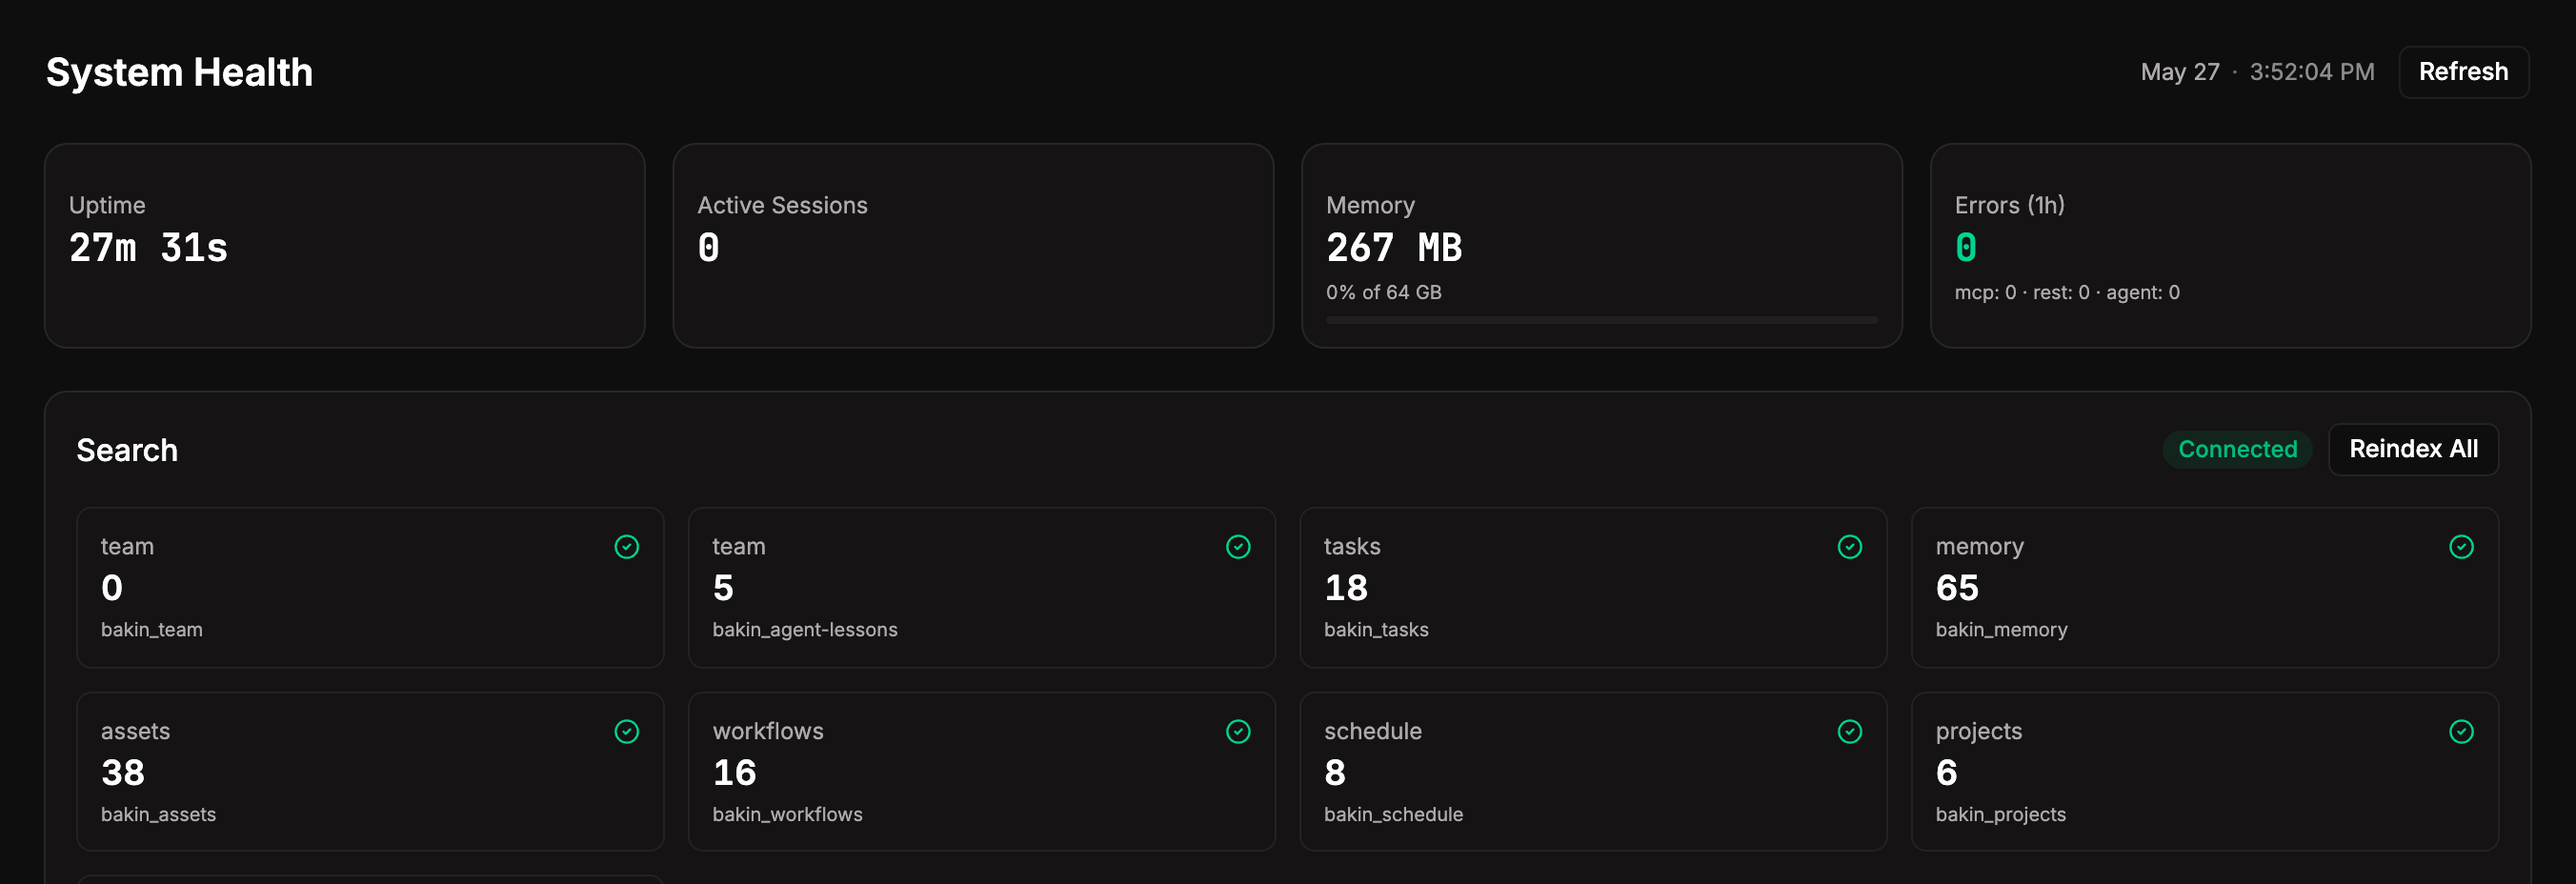
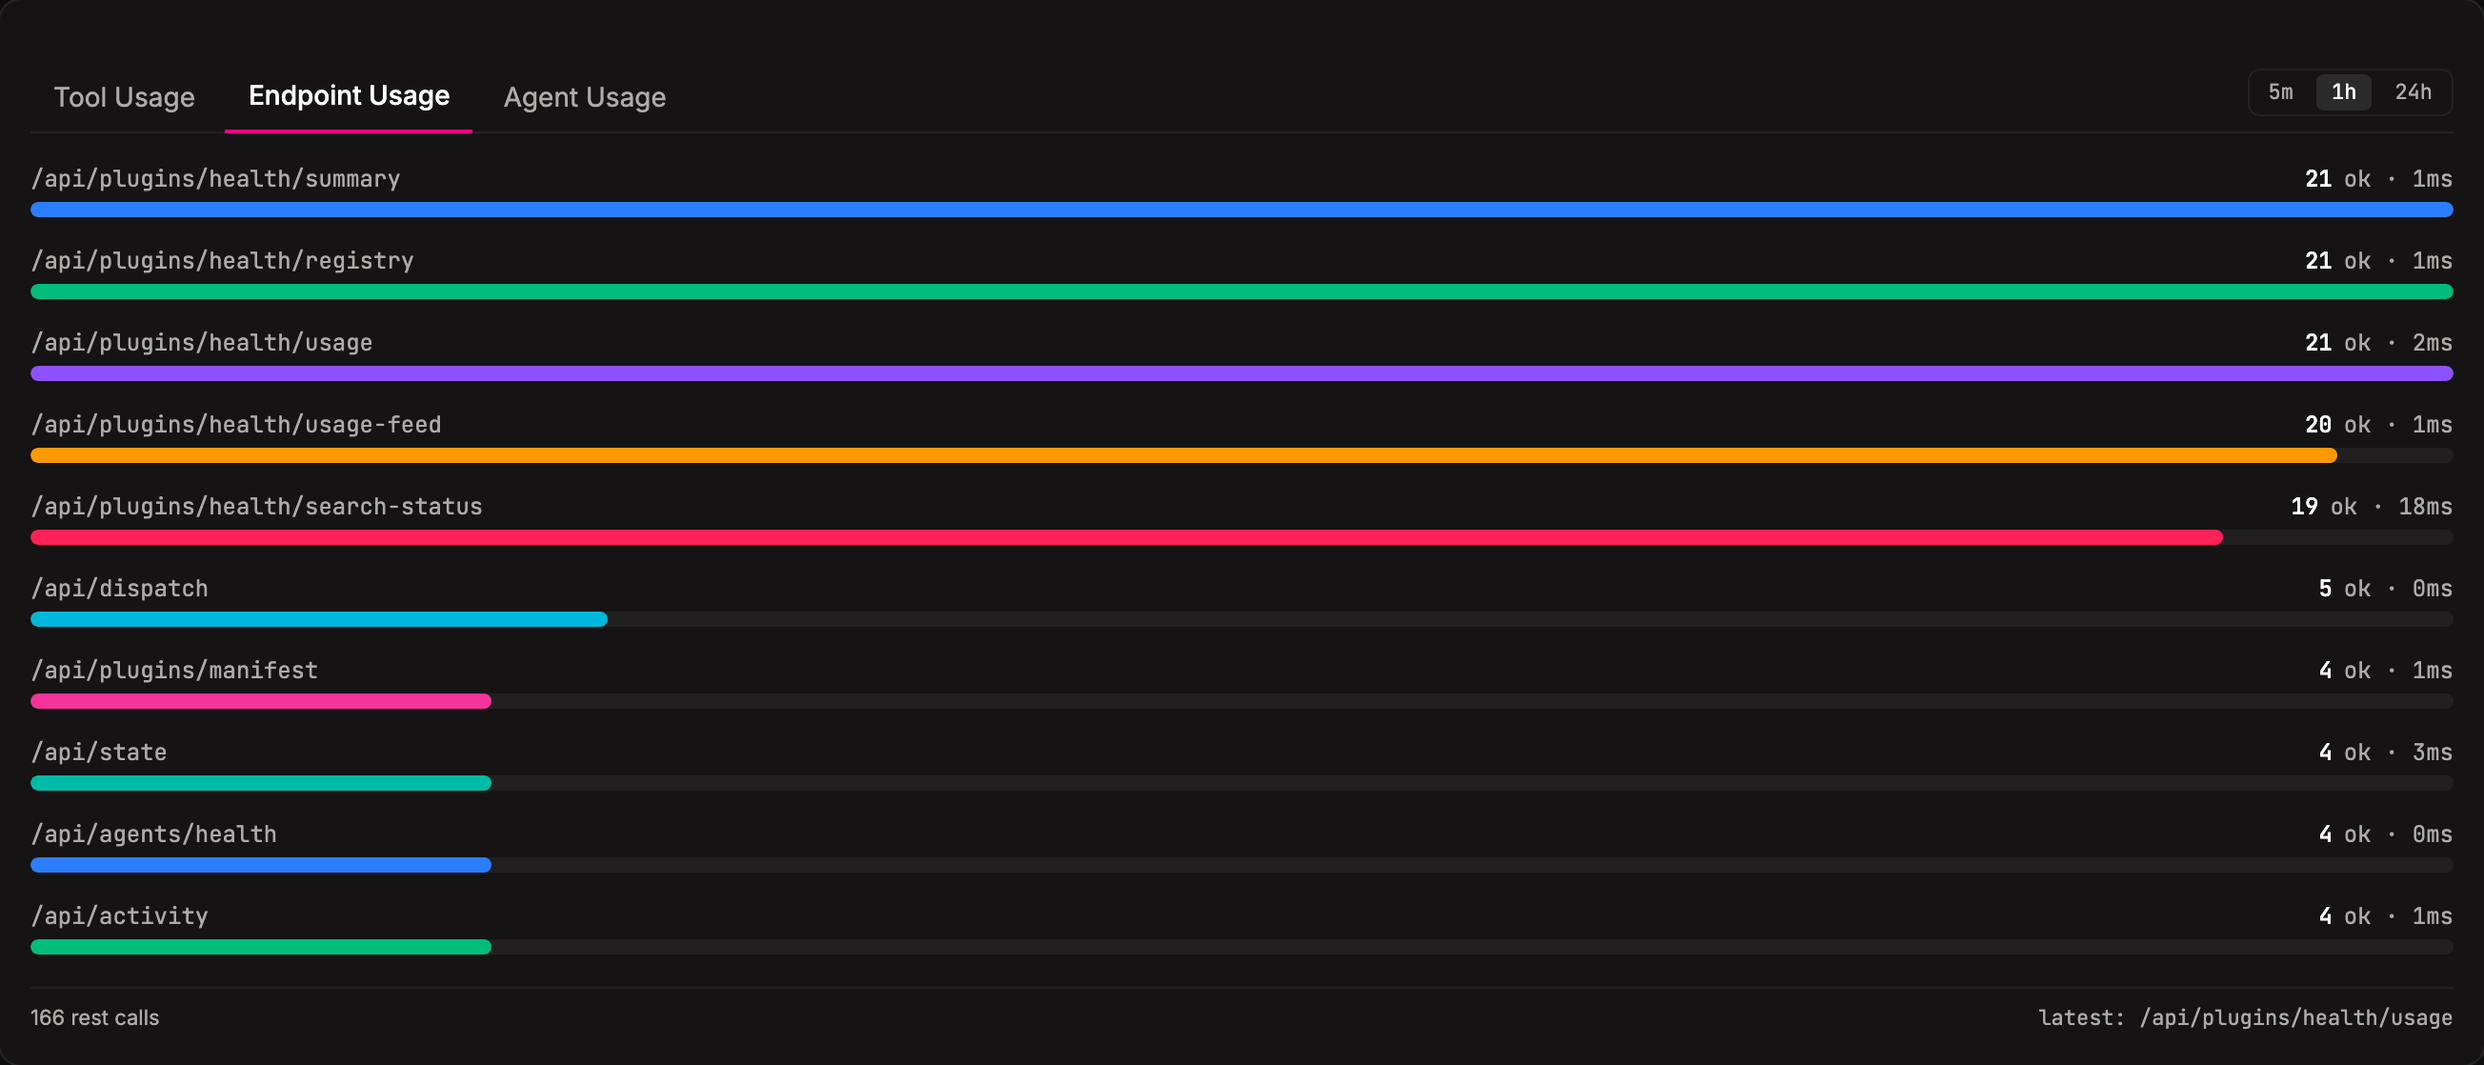
fix(docs): improve health page screenshots
Dashboard now captures full viewport with nav (no left edge clipping).
Removed cost/context placeholder. Usage panel shows Endpoint Usage tab
with per-route call volume bars.

diff --git a/docs/src/content/docs/using/health.md b/docs/src/content/docs/using/health.md
@@ -15,10 +15,6 @@ Live token counts, session costs, MCP and REST volumes, error rates, plugin stat
 
 Two cards anchor the top of the dashboard side by side. They cover the questions that pile up fastest when you've got a roster running: what each agent is costing you, and whose context is about to overflow. Glance at them on the way past, look closer when something looks off.
 
-<figure class="screenshot-frame">
-  <img src="/docs/media/screenshots/using-health--cost-context.png" alt="Context usage on the left (tokens in each agent's latest session), runtime-reported cost estimates on the right." loading="lazy">
-</figure>
-
 <div class="table-light-full table-label-wrap">
 
 | Card | What it answers |
